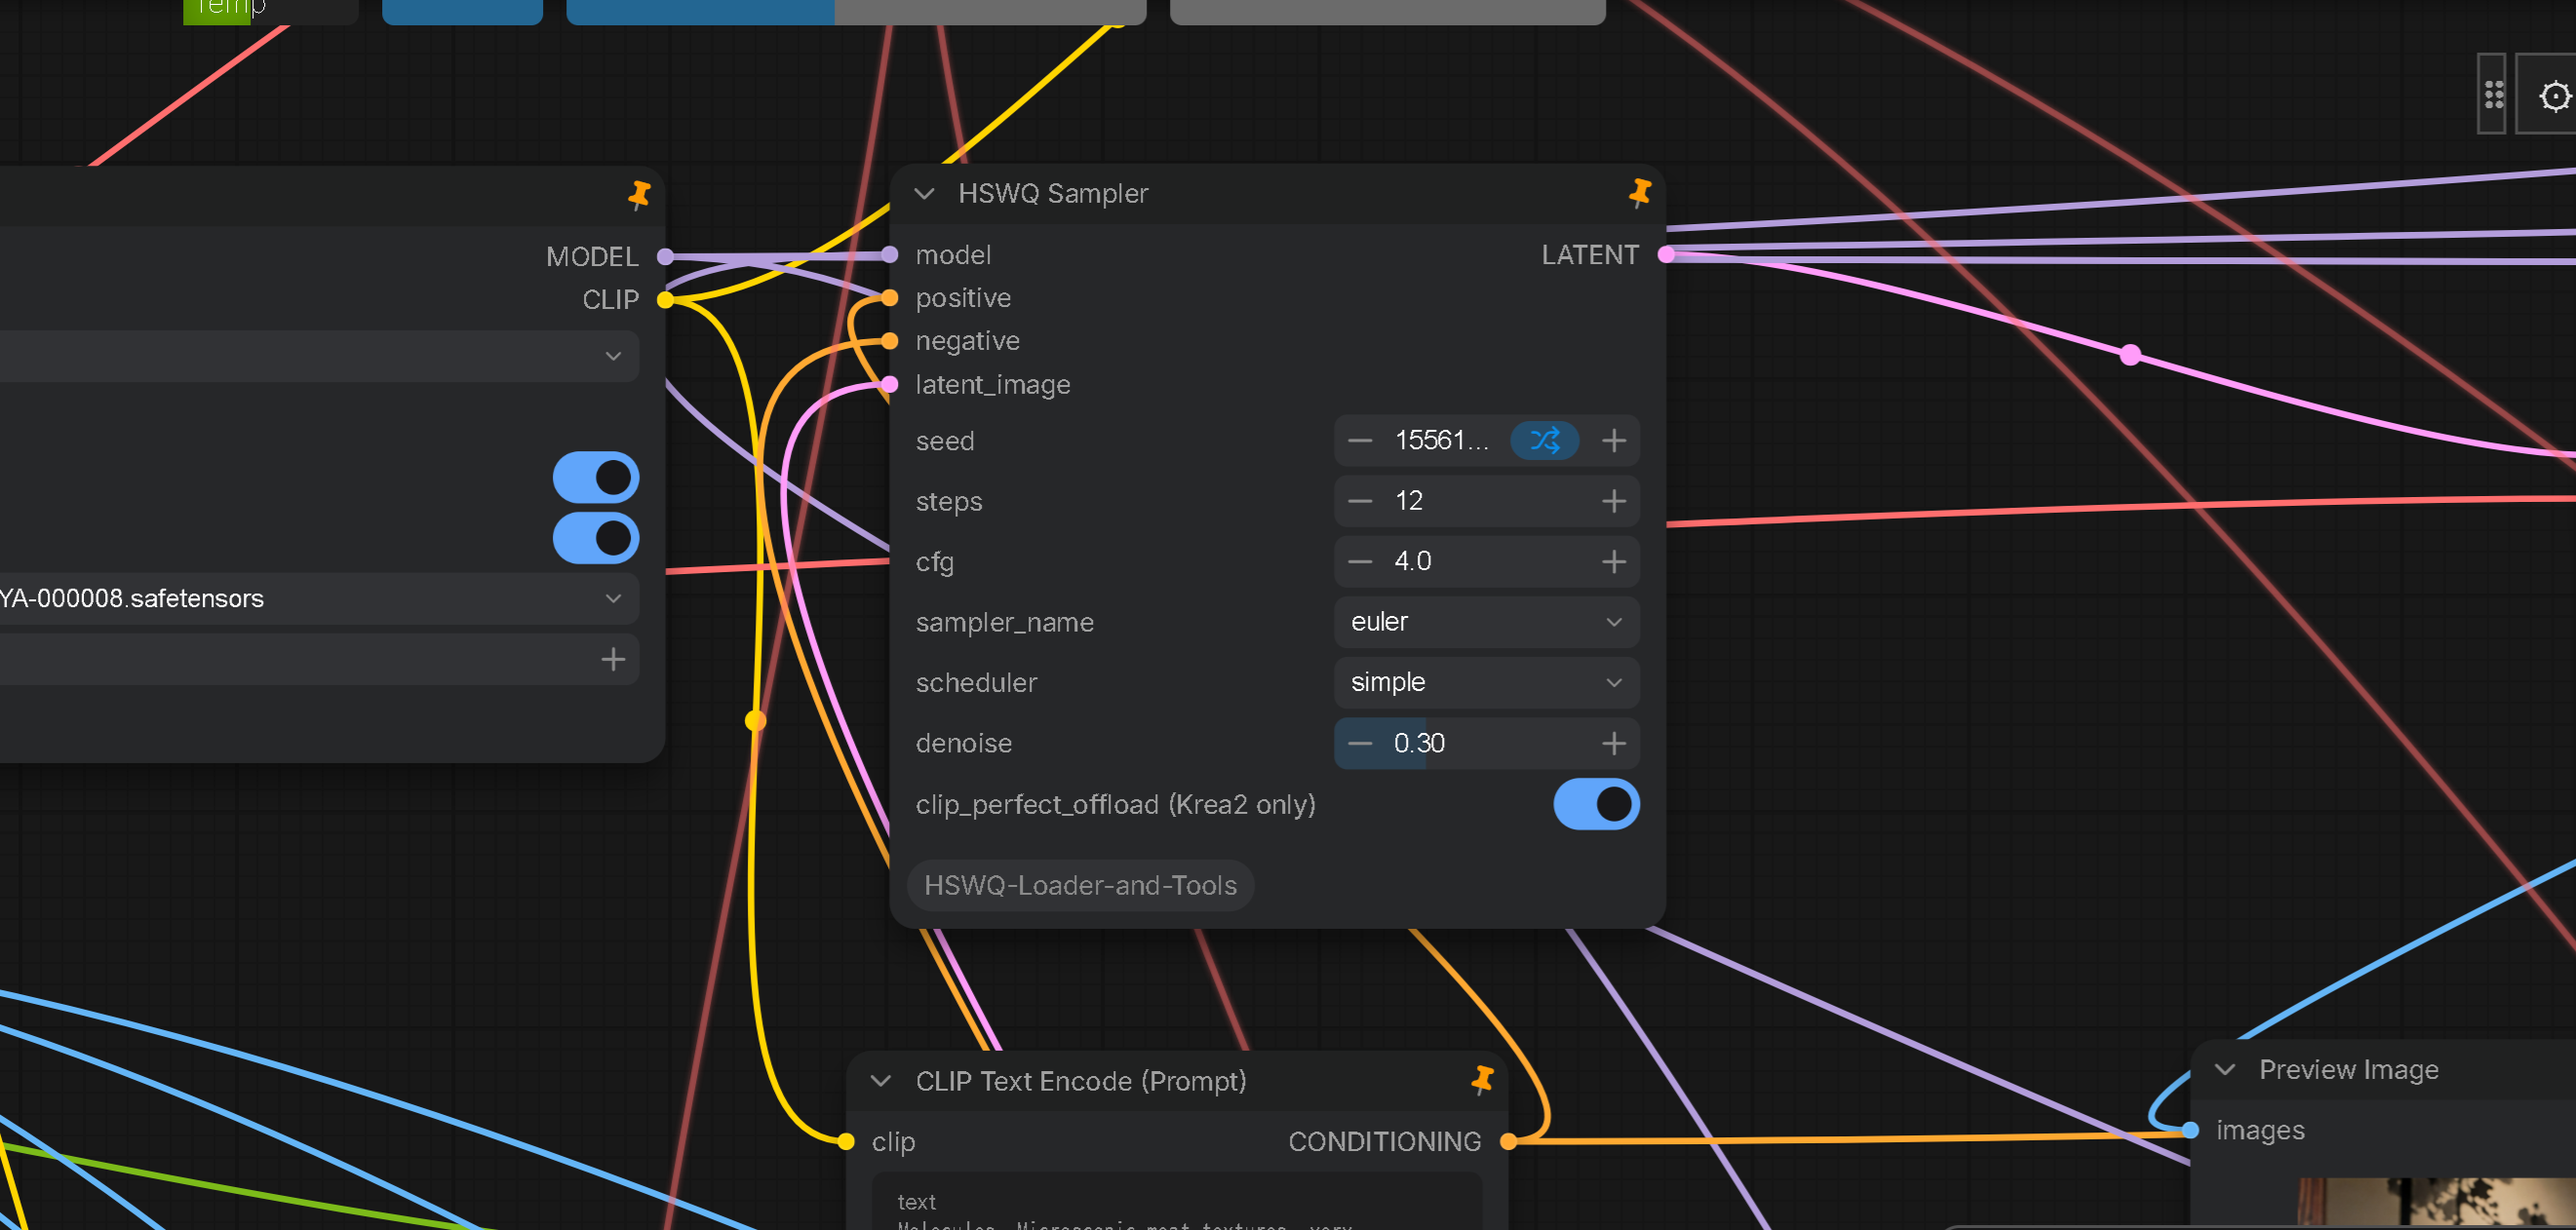
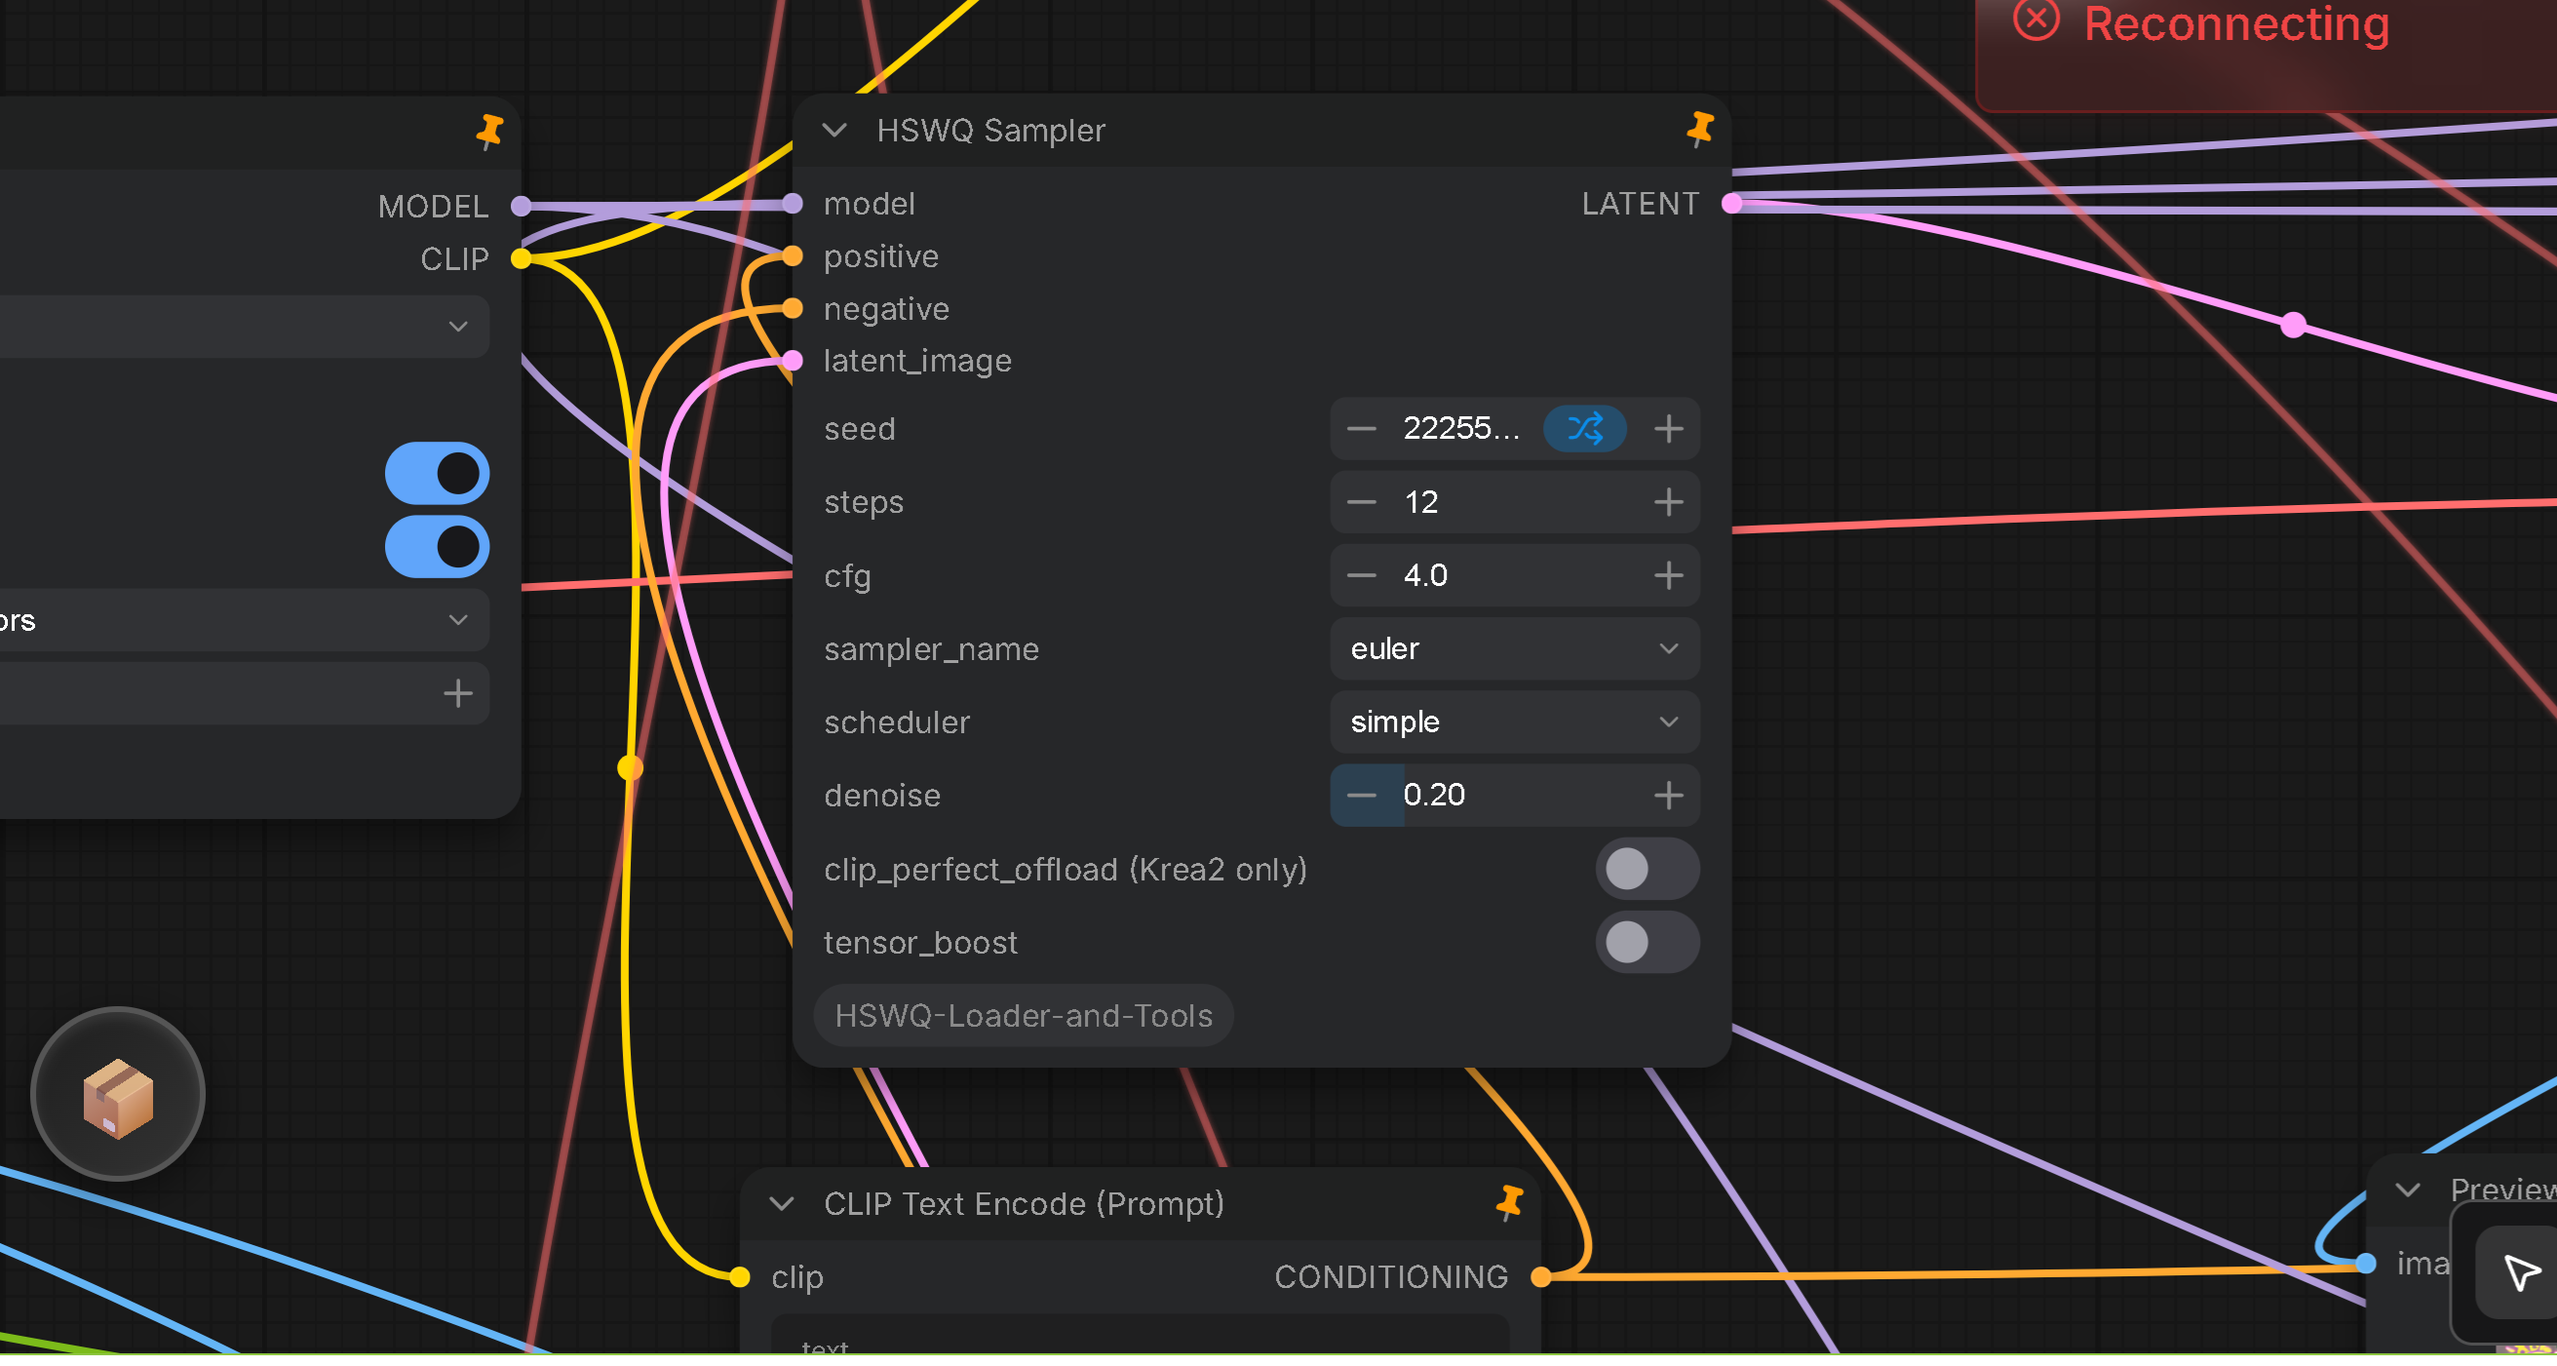
docs: refresh sampler screenshot and document tensor_boost VRAM guidance

diff --git a/README.md b/README.md
@@ -143,6 +143,14 @@ Example: input height 1080, `upscale_by = Auto`, `target_height = 4320` → scal
 - **Module Safety**: Uses isolated module loading to prevent conflicts with other custom nodes
 - **ssitu / UltimateSDUpscale**: Base of the tiled upscale design ([ComfyUI_UltimateSDUpscale](https://github.com/ssitu/ComfyUI_UltimateSDUpscale), GPL-3.0)
 
+#### Tensor Boost (`tensor_boost`)
+
+Optional **`tensor_boost`** BOOLEAN (default **OFF**) for **SDXL ConvRot NVFP4** on NVIDIA Blackwell (SM >= 100: B200 / GB200, RTX 5090 / SM120). When **ON**, enables Per-Weight CUDA Graph acceleration inside `nodes/nvfp4/`. When **OFF** (recommended for tiled upscale), clears the CUDA Graph cache via `clear_nvfp4_cudagraphs()` and runs Eager Pooled with **0 MB extra VRAM**, so USDU tiles do not blow VRAM / spill to system RAM.
+
+Intended pairing with **HSWQ Sampler**: turn Tensor Boost **ON** for the fixed-resolution base pass, then keep it **OFF** on this upscaler. Loader has no toggle. Details: `md/HSWQ_SDXL_NVFP4_BLACKWELL_ACCELERATION_GUIDE.md`.
+
+**Recommended:** **RTX 5090 with 32 GB VRAM or more** when using Tensor Boost / high-res tiled upscale on this path.
+
 #### FP8 (fp8e4m3) and torch.compile
 - **Purpose:** Use this node with FP8 quantized models (e.g. HSWQ SDXL) and torch.compile together.
 - **Patches:** On load, this extension applies compatibility patches (`usdu_compat_patches.py`) that fix copy_ shape mismatch, FP8 linear/addmm bias–out_features mismatch, control embedder weight layout, and Lumina modulate/apply_gate dimension issues so the node works with FP8 and torch.compile.
@@ -198,9 +206,11 @@ See Provenance above for GPL-3.0 base and HSWQ-compatibility improvements (`node
 
 ### HSWQ Sampler
 
-<img src="png/sampler.png" alt="HSWQ Sampler" width="400">
+<img src="png/sampler.png?v=2" alt="HSWQ Sampler" width="400">
 
 A KSampler-equivalent node that behaves exactly like the standard ComfyUI KSampler, but **automatically adds all of RES4LYF's samplers and schedulers** when [RES4LYF](https://github.com/ClownsharkBatwing/RES4LYF) is installed. It reproduces the dynamic sampler generation logic found in Forge so that the full Runge-Kutta (`rk_beta`) sampler family stays selectable and runnable in vanilla ComfyUI.
+
+**Recommended:** **16 GB VRAM or more**.
 
 #### Why this node exists
 
@@ -214,6 +224,11 @@ In Forge, RES4LYF's `beta/__init__.py` dynamically generates wrapper functions c
 - **Reliable re-injection**: Registers every sampler into both `KSampler.SAMPLERS` (UI selectable) and `comfy.k_diffusion.sampling` via `setattr` (actual inference), guarding against RES4LYF's `importlib.reload()` wiping out function references
 - **Scheduler merge**: Includes ComfyUI's `SCHEDULER_HANDLERS` in addition to the standard scheduler list
 - **`clip_perfect_offload (Krea2 only)`**: Optional toggle that frees the Krea2 text encoder before sampling (see below)
+- **`tensor_boost`**: Optional BOOLEAN (default **OFF**) for Blackwell Tensor Boost on SDXL ConvRot NVFP4 (see below)
+
+#### Tensor Boost (`tensor_boost`)
+
+Optional **`tensor_boost`** BOOLEAN (default **OFF**) for **SDXL ConvRot NVFP4** on NVIDIA Blackwell (SM >= 100: B200 / GB200, RTX 5090 / SM120). When **ON**, enables Per-Weight CUDA Graph auto-dispatch inside `nodes/nvfp4/` for faster fixed-resolution sampling (e.g. 1024×1024). When **OFF**, clears graphs and uses Eager Pooled. Controlled via `HSWQ_NVFP4_TENSORBOOST` / `HSWQ_NVFP4_CUDAGRAPH`. Does **not** affect Z Image / INT8 / FP8 / stock paths. The Checkpoint Loader has no toggle — only this sampler and **HSWQ Ultimate SD Upscale**. Details: `md/HSWQ_SDXL_NVFP4_BLACKWELL_ACCELERATION_GUIDE.md`.
 
 #### Krea2 text-encoder offload (`clip_perfect_offload`)
 
@@ -233,7 +248,8 @@ The feature is deliberately narrow and safe:
 - **Category**: `sampling`
 - **Extensibility**: Designed as a thin UI wrapper so future HSWQ / Z-Image quantized-inference arguments can be intercepted in `sample()` without patching the ComfyUI core
 - **Krea2 TE offload**: Leave `clip_perfect_offload (Krea2 only)` off for every non-Krea2 model; turn it on for Krea2 to reach bench-parity VRAM. For old workflows the pre-rename key `clip_perfect_offload` still maps to the same toggle.
-- **Details**: See `md/hswq_sampler_technical_reference.md` and `md/HSWQ_KREA2_TE_OFFLOAD_GUIDE.md`
+- **Tensor Boost**: Prefer **ON** for the base SDXL ConvRot NVFP4 pass on Blackwell; keep **OFF** on **HSWQ Ultimate SD Upscale** during tiles. Requires **16 GB VRAM or more** (recommendation for this sampler).
+- **Details**: See `md/hswq_sampler_technical_reference.md`, `md/HSWQ_KREA2_TE_OFFLOAD_GUIDE.md`, and `md/HSWQ_SDXL_NVFP4_BLACKWELL_ACCELERATION_GUIDE.md`
 
 ### HSWQ Torch Compile
 
